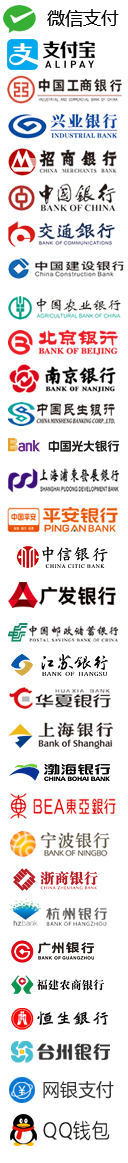
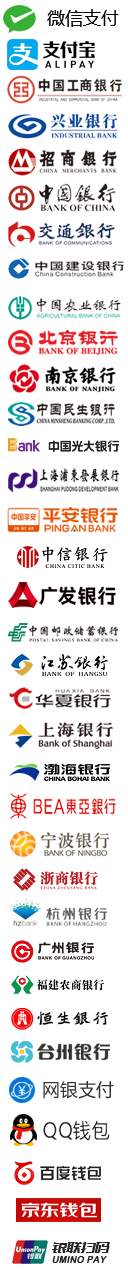
玩家中心调整

diff --git a/WebContent/static/mcenter/quickpays.html b/WebContent/static/mcenter/quickpays.html
@@ -253,6 +253,9 @@ filter: alpha(opacity=0);}
 .pay-tzb{background-position:0 -1032px!important;}
 .pay-ebank{background-position:0 -1071px!important;}
 .pay-qqwallet{background-position:0 -1111px!important;}
+.pay-bdwallet{background-position: 0 -1154px;}/* 百度钱包 */
+.pay-jdwallet{background-position: 0 -1190px;}/* 京东钱包 */
+.pay-unionpay{background-position: 0 -1232px;}/* 银联在线 */
 .pay-label.active{
   border:1px solid #5fcbf3;
   background-color: #d9f4ff;

diff --git a/WebContent/pcenter/themes/default/pcenter-style.css b/WebContent/pcenter/themes/default/pcenter-style.css
@@ -161,7 +161,7 @@ a{color:#2772ee}
 	height: 100%;
 	text-align: left;
 	word-spacing: -6px;
-	padding-left: 210px;
+	padding-left: 213px;
 }
 .banner .right .nav-menu li{
 	display: inline-block;
